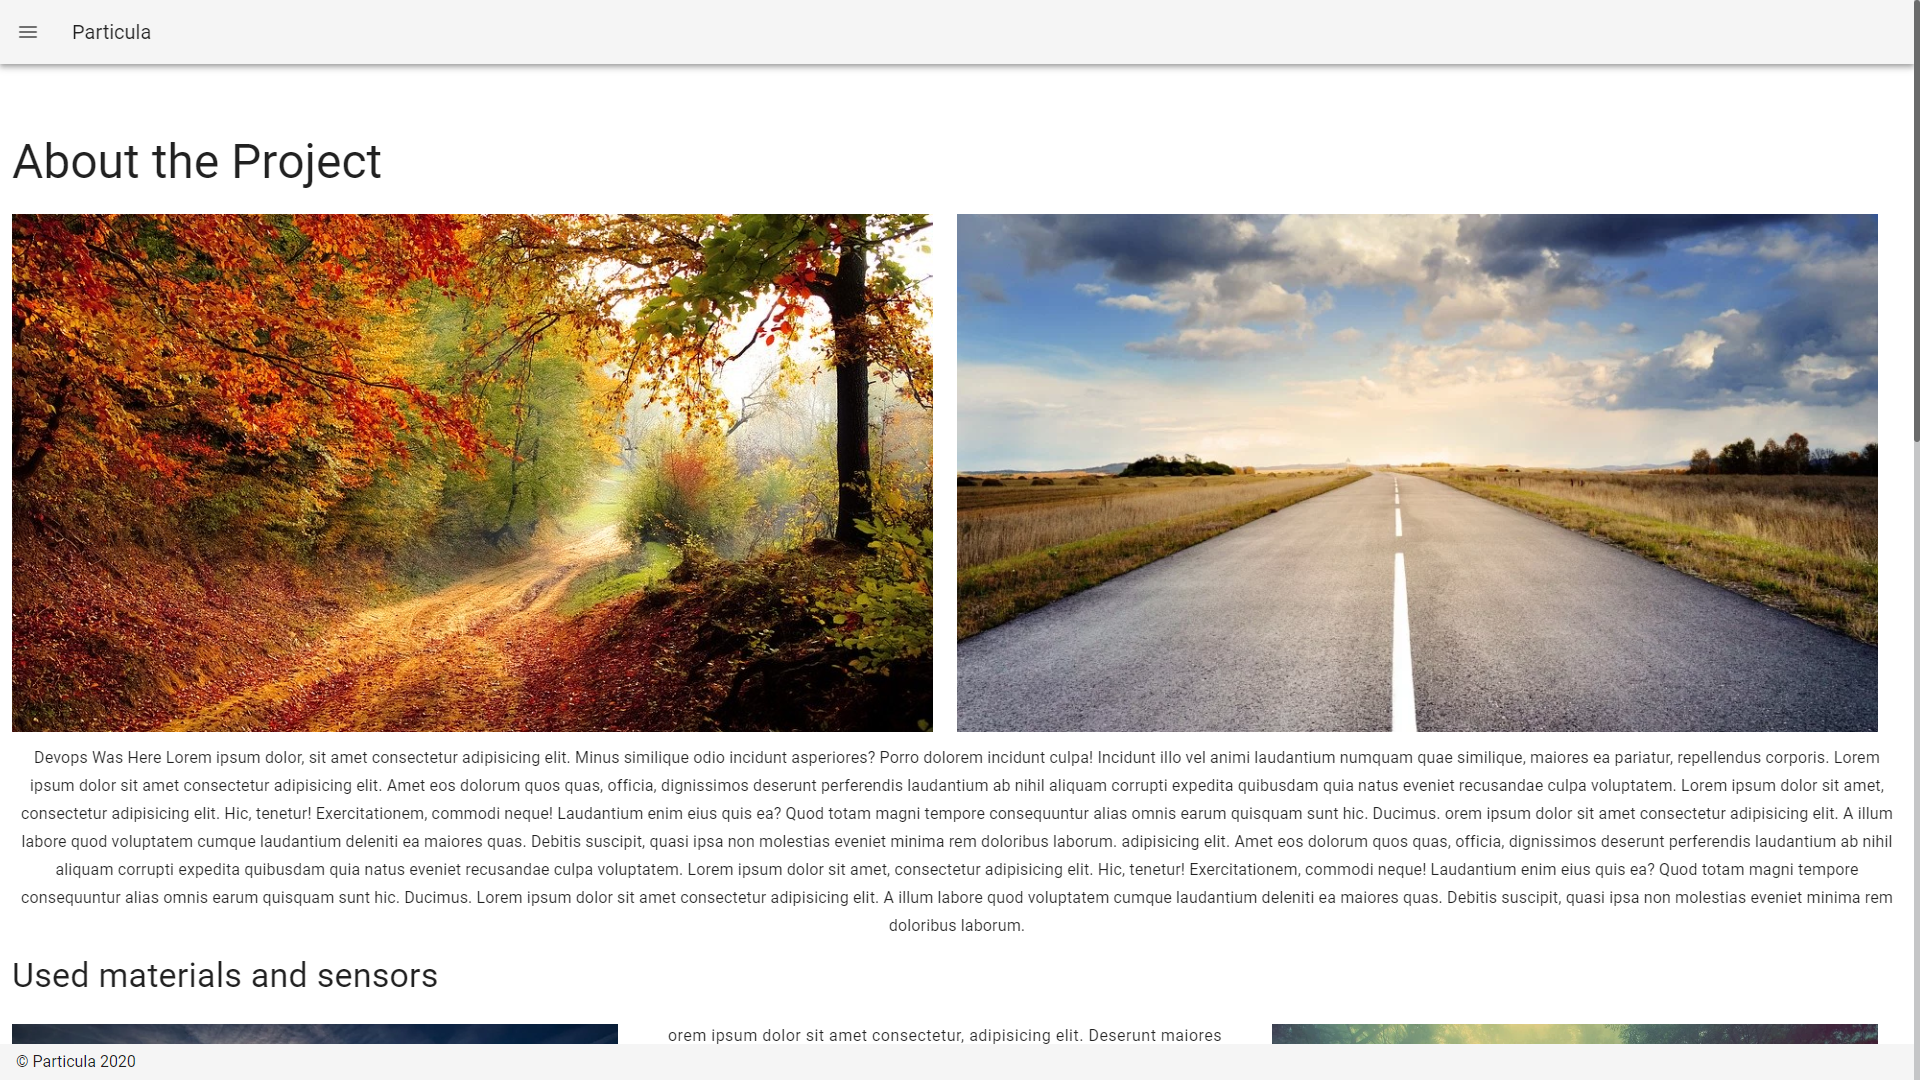
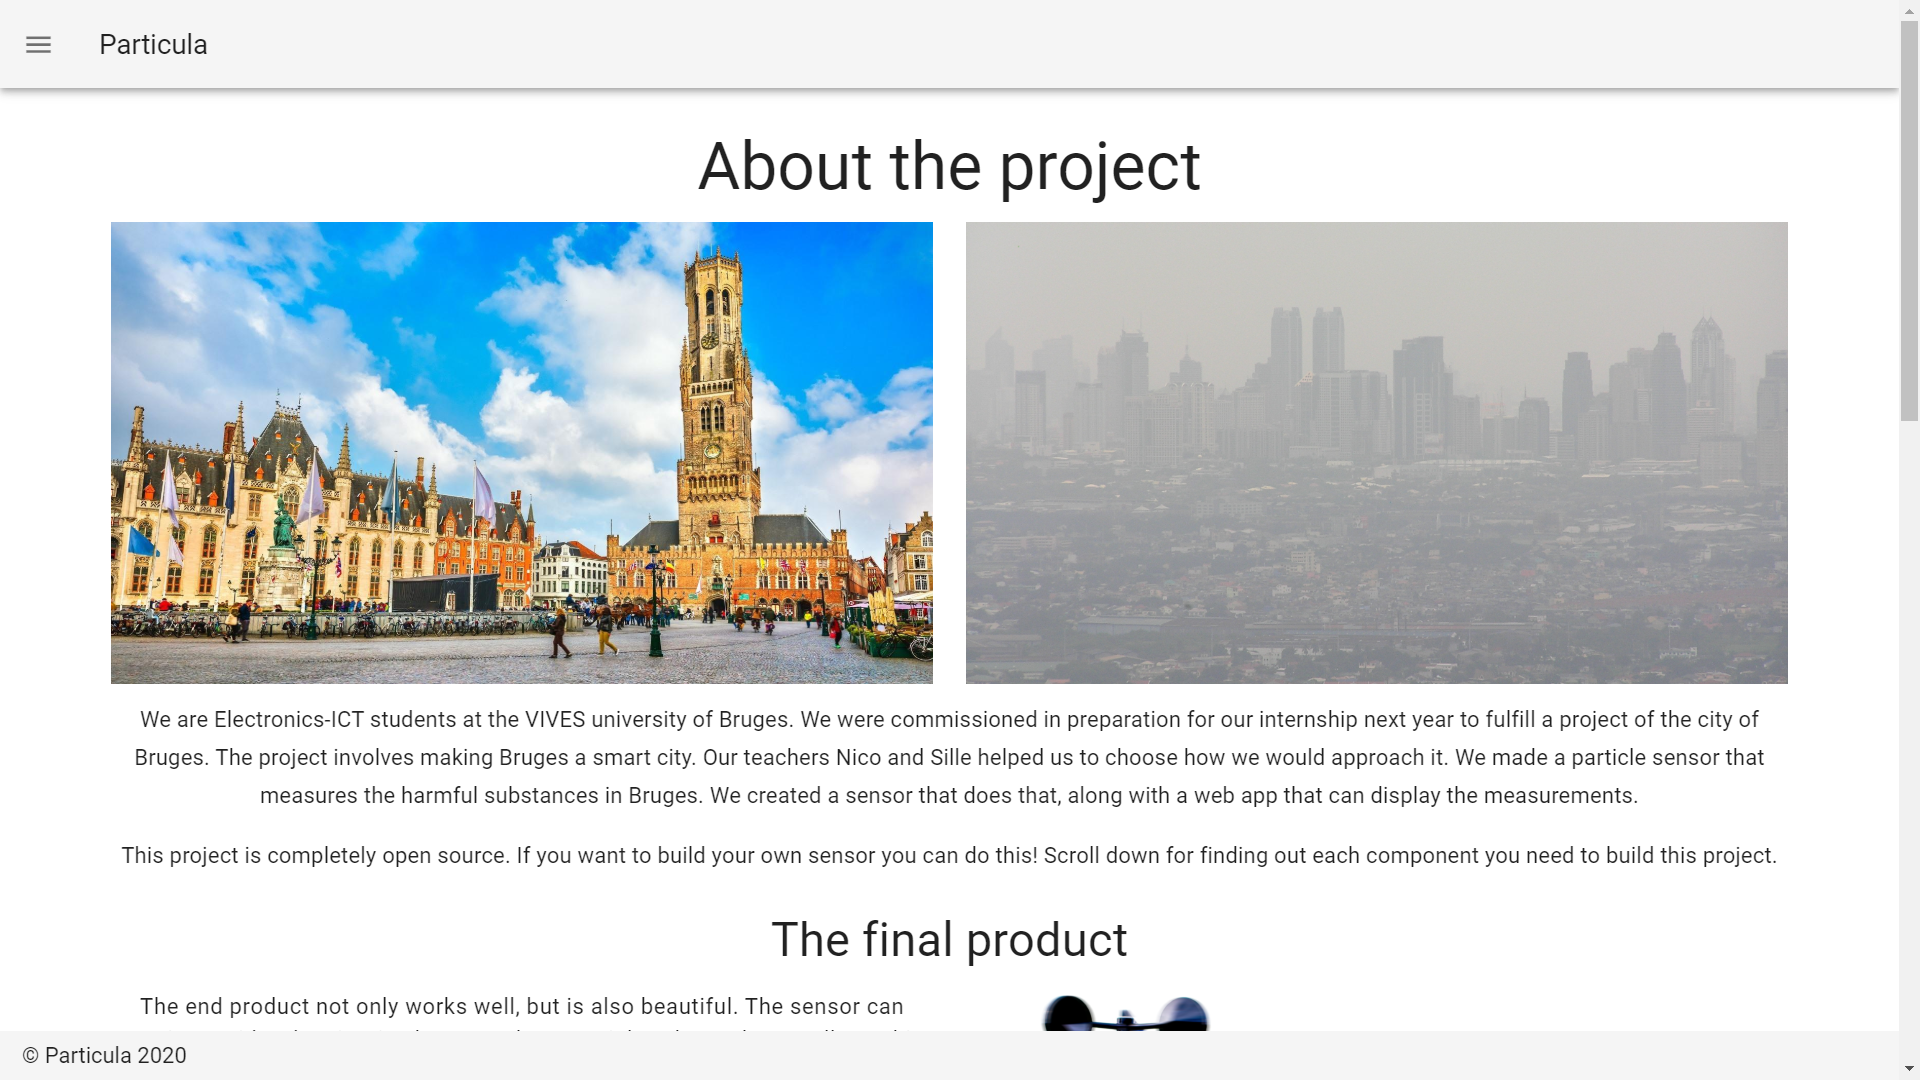
Updated a aboutpage photo and added the buildsensor page

diff --git a/README.md b/README.md
@@ -83,6 +83,12 @@ This page gives information about the Particula project.
 
 ![Login/registration page](./src/img/About.png)
 
+### Build your own sensor
+
+This page gives information about the used components in the Particula project.
+
+![Login/registration page](./src/img/BuildYourOwnSensor.png)
+
 ## Components
 
 ### AboutSensor
